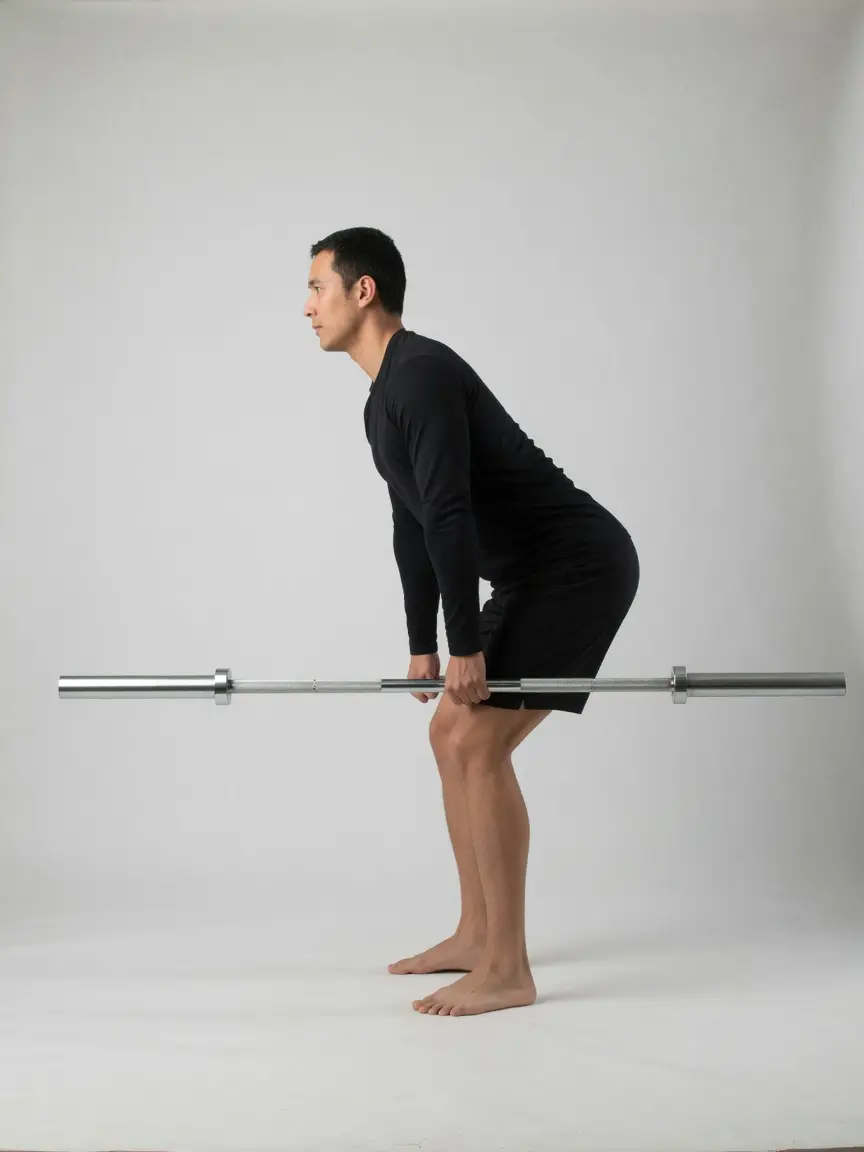
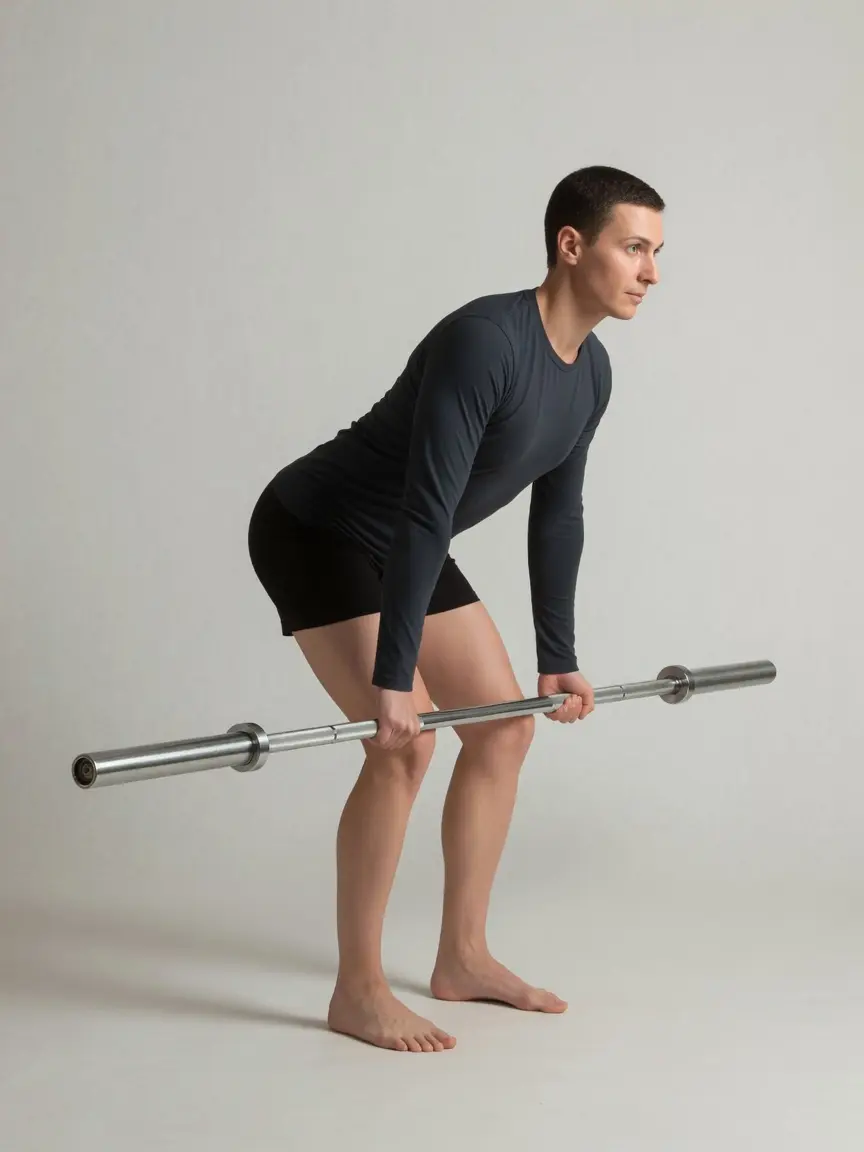
RDL bar-axis fix (.475)
Regenerate Romanian deadlift mid-hinge with the bar clearly in front of the
legs (same left-right empty-bar axis as deadlift). Reject through-thigh /
good-morning geometry in Form Director.

diff --git a/src/lib/buildInfo.ts b/src/lib/buildInfo.ts
@@ -1,2 +1,2 @@
 /** Shown on Profile so testers can confirm the deployed build. Bump when shipping UI to master. */
-export const APP_BUILD_LABEL = '2026.07-unified.474';
+export const APP_BUILD_LABEL = '2026.07-unified.475';

diff --git a/LOG.md b/LOG.md
@@ -6,9 +6,16 @@ Chronological record of shipped work. Newest first.
 
 > **The `≤20KB` half of this rule was unmeetable and is retired.** An entry here averages ~5.6KB, because the house style is to explain the defect class rather than name the change — which is the most valuable thing in this repo and not something to trade away for a byte count. Fifteen entries is ~84KB; obeying 20KB would have meant keeping **three**. So the count rule stands, and the size rule becomes a **ratchet**: the file may shrink, never grow. If the founder wants a hard byte ceiling instead, that is a call about house style, not about this file.
 
-Archive: [2026-06 → 2026-07-20](docs/archive/log/LOG-2026-06_to_2026-07-20.md) · [2026-07-20 tail](docs/archive/log/LOG-2026-07-20_tail.md) (incl. Accelerator sprint kit rotated 2026-07-22) · [2026-07-20 → 2026-07-29 (`.179` and earlier)](docs/archive/log/LOG-2026-07-20_to_2026-07-29.md) · [2026-07-29 → 2026-07-30 (`.180`–`.199`)](docs/archive/log/LOG-2026-07-29_to_2026-07-30.md) (both rotated 2026-07-30) · [2026-07-30 → 2026-07-31 (`.200`–`.213`)](docs/archive/log/LOG-2026-07-30_to_2026-07-31.md) (rotated 2026-08-02) · [`.247` for `.263`](docs/archive/log/LOG-hero-audit-rotate-2026-08-03.md) · [`.279`](docs/archive/log/LOG-rotate-279.md) · [`.280`](docs/archive/log/LOG-rotate-280.md) · [`.281` for `.296`](docs/archive/log/LOG-rotate-296.md) · [`.282` for `.297`](docs/archive/log/LOG-rotate-297.md) · [`.283` for `.298`](docs/archive/log/LOG-rotate-298.md) · [`.284` for `.299`](docs/archive/log/LOG-rotate-299.md) · [`.285` for `.300`](docs/archive/log/LOG-rotate-300.md) · [`.286` for `.301`](docs/archive/log/LOG-rotate-301.md) · [`.287` for `.302`](docs/archive/log/LOG-rotate-302.md) · [`.288` for `.303`](docs/archive/log/LOG-rotate-303.md) · [`.289` for `.304`](docs/archive/log/LOG-rotate-304.md) · [`.290` for `.305`](docs/archive/log/LOG-rotate-305.md) · [`.291` for `.306`](docs/archive/log/LOG-rotate-306.md) · [`.292` for `.307`](docs/archive/log/LOG-rotate-307.md) · [`.293` for `.308`](docs/archive/log/LOG-rotate-308.md) · [`.294` for `.309`](docs/archive/log/LOG-rotate-309.md) · [`.295` for `.310`](docs/archive/log/LOG-rotate-310.md) · [`.296` for `.311`](docs/archive/log/LOG-rotate-311.md) · [`.297` for `.312`](docs/archive/log/LOG-rotate-312.md) · [`.298` for `.313`](docs/archive/log/LOG-rotate-313.md) · [`.299` for `.314`](docs/archive/log/LOG-rotate-314.md) · [`.300` for `.315`](docs/archive/log/LOG-rotate-315.md). · [`.301` for `.316`](docs/archive/log/LOG-rotate-316.md). · [`.302` for `.317`](docs/archive/log/LOG-rotate-317.md). · [`.303` for `.318`](docs/archive/log/LOG-rotate-318.md). · [`.304` for `.319`](docs/archive/log/LOG-rotate-319.md). · [`.305` for `.320`](docs/archive/log/LOG-rotate-320.md). · [`.306` for `.321`](docs/archive/log/LOG-rotate-321.md). · [`.307` for `.322`](docs/archive/log/LOG-rotate-322.md). · [`.308` for `.323`](docs/archive/log/LOG-rotate-323.md). · [`.309` for `.324`](docs/archive/log/LOG-rotate-324.md). · [`.310` for `.325`](docs/archive/log/LOG-rotate-325.md). · [`.311` for `.326`](docs/archive/log/LOG-rotate-326.md). · [`.312` for `.327`](docs/archive/log/LOG-rotate-327.md). · [`.313` for `.328`](docs/archive/log/LOG-rotate-328.md). · [`.314` for `.329`](docs/archive/log/LOG-rotate-329.md). · [`.315` for `.330`](docs/archive/log/LOG-rotate-330.md). · [`.316` for `.331`](docs/archive/log/LOG-rotate-331.md). · [`.317` for `.332`](docs/archive/log/LOG-rotate-332.md). · [`.318` for `.333`](docs/archive/log/LOG-rotate-333.md). · [`.319` for `.334`](docs/archive/log/LOG-rotate-334.md). · [`.320` for `.335`](docs/archive/log/LOG-rotate-335.md). · [`.321` for `.336`](docs/archive/log/LOG-rotate-336.md). · [`.322` for `.337`](docs/archive/log/LOG-rotate-337.md). · [`.323` for `.338`](docs/archive/log/LOG-rotate-338.md). · [`.324` for `.339`](docs/archive/log/LOG-rotate-339.md). · [`.325` for `.340`](docs/archive/log/LOG-rotate-340.md). · [`.326` for `.341`](docs/archive/log/LOG-rotate-341.md). · [`.327` for `.342`](docs/archive/log/LOG-rotate-342.md). · [`.328` for `.343`](docs/archive/log/LOG-rotate-343.md). · [`.329` for `.344`](docs/archive/log/LOG-rotate-344.md). · [`.330` for `.345`](docs/archive/log/LOG-rotate-345.md). · [`.331` for `.346`](docs/archive/log/LOG-rotate-346.md). · [`.332` for `.347`](docs/archive/log/LOG-rotate-347.md). · [`.333` for `.348`](docs/archive/log/LOG-rotate-348.md). · [`.334` for `.349`](docs/archive/log/LOG-rotate-349.md). · [`.335` for `.350`](docs/archive/log/LOG-rotate-350.md). · [`.336` for `.351`](docs/archive/log/LOG-rotate-351.md). · [`.337` for `.352`](docs/archive/log/LOG-rotate-352.md). · [`.338` for `.353`](docs/archive/log/LOG-rotate-353.md). · [`.339` for `.354`](docs/archive/log/LOG-rotate-354.md). · [`.340` for `.355`](docs/archive/log/LOG-rotate-355.md). · [`.341` for `.356`](docs/archive/log/LOG-rotate-356.md). · [`.342` for `.357`](docs/archive/log/LOG-rotate-357.md). · [`.343` for `.358`](docs/archive/log/LOG-rotate-358.md). · [`.344` for `.359`](docs/archive/log/LOG-rotate-359.md). · [`.345` for `.360`](docs/archive/log/LOG-rotate-360.md). · [`.346` for `.361`](docs/archive/log/LOG-rotate-361.md). · [`.347` for `.362`](docs/archive/log/LOG-rotate-362.md). · [`.348` for `.363`](docs/archive/log/LOG-rotate-363.md). · [`.349` for `.364`](docs/archive/log/LOG-rotate-364.md). · [`.350` for `.365`](docs/archive/log/LOG-rotate-365.md). · [`.351` for `.366`](docs/archive/log/LOG-rotate-366.md). · [`.352` for `.367`](docs/archive/log/LOG-rotate-367.md). · [`.353` for `.368`](docs/archive/log/LOG-rotate-368.md). · [`.354` for `.369`](docs/archive/log/LOG-rotate-369.md). · [`.355` for `.370`](docs/archive/log/LOG-rotate-370.md). · [`.356` for `.371`](docs/archive/log/LOG-rotate-371.md). · [`.357` for `.372`](docs/archive/log/LOG-rotate-372.md). · [`.358` for `.373`](docs/archive/log/LOG-rotate-373.md). · [`.359` for `.374`](docs/archive/log/LOG-rotate-374.md). · [`.360` for `.375`](docs/archive/log/LOG-rotate-375.md). · [`.361` for `.376`](docs/archive/log/LOG-rotate-376.md). · [`.362` for `.377`](docs/archive/log/LOG-rotate-377.md). · [`.363` for `.378`](docs/archive/log/LOG-rotate-378.md). · [`.364` for `.379`](docs/archive/log/LOG-rotate-379.md). · [`.365` for `.380`](docs/archive/log/LOG-rotate-380.md). · [`.366` for `.381`](docs/archive/log/LOG-rotate-381.md). · [`.367` for `.382`](docs/archive/log/LOG-rotate-382.md). · [`.368` for `.383`](docs/archive/log/LOG-rotate-383.md). · [`.369` for `.384`](docs/archive/log/LOG-rotate-384.md). · [`.370` for `.385`](docs/archive/log/LOG-rotate-385.md). · [`.371` for `.386`](docs/archive/log/LOG-rotate-386.md). · [`.372` for `.387`](docs/archive/log/LOG-rotate-387.md). · [`.373` for `.388`](docs/archive/log/LOG-rotate-388.md). · [`.374` for `.389`](docs/archive/log/LOG-rotate-389.md). · [`.375` for `.390`](docs/archive/log/LOG-rotate-390.md). · [`.376` for `.391`](docs/archive/log/LOG-rotate-391.md). · [`.377` for `.392`](docs/archive/log/LOG-rotate-392.md). · [`.378` for `.393`](docs/archive/log/LOG-rotate-393.md). · [`.379` for `.394`](docs/archive/log/LOG-rotate-394.md). · [`.380` for `.395`](docs/archive/log/LOG-rotate-395.md). · [`.381` for `.396`](docs/archive/log/LOG-rotate-396.md). · [`.382` for `.397`](docs/archive/log/LOG-rotate-397.md). · [`.383` for `.398`](docs/archive/log/LOG-rotate-398.md). · [`.384` for `.399`](docs/archive/log/LOG-rotate-399.md). · [`.385` for `.400`](docs/archive/log/LOG-rotate-400.md). · [`.386` for `.401`](docs/archive/log/LOG-rotate-401.md). · [`.387` for `.402`](docs/archive/log/LOG-rotate-402.md). · [`.388` for `.403`](docs/archive/log/LOG-rotate-403.md). · [`.389` for `.404`](docs/archive/log/LOG-rotate-404.md). · [`.390` for `.405`](docs/archive/log/LOG-rotate-405.md). · [`.391` for `.406`](docs/archive/log/LOG-rotate-406.md). · [`.392` for `.407`](docs/archive/log/LOG-rotate-407.md). · [`.393` for `.408`](docs/archive/log/LOG-rotate-408.md). · [`.394` for `.409`](docs/archive/log/LOG-rotate-409.md). · [`.395` for `.410`](docs/archive/log/LOG-rotate-410.md). · [`.396` for `.411`](docs/archive/log/LOG-rotate-411.md). · [`.397` for `.412`](docs/archive/log/LOG-rotate-412.md). · [`.398` for `.413`](docs/archive/log/LOG-rotate-413.md). · [`.399` for `.414`](docs/archive/log/LOG-rotate-414.md). · [`.400` for `.415`](docs/archive/log/LOG-rotate-415.md). · [`.401` for `.416`](docs/archive/log/LOG-rotate-416.md). · [`.402` for `.417`](docs/archive/log/LOG-rotate-417.md). · [`.403` for `.418`](docs/archive/log/LOG-rotate-418.md). · [`.404` for `.419`](docs/archive/log/LOG-rotate-419.md). · [`.405` for `.420`](docs/archive/log/LOG-rotate-420.md). · [`.406` for `.421`](docs/archive/log/LOG-rotate-421.md). · [`.407` for `.422`](docs/archive/log/LOG-rotate-422.md). · [`.408` for `.423`](docs/archive/log/LOG-rotate-423.md). · [`.409` for `.424`](docs/archive/log/LOG-rotate-424.md). · [`.410` for `.425`](docs/archive/log/LOG-rotate-425.md). · [`.411` for `.426`](docs/archive/log/LOG-rotate-426.md). · [`.412` for `.427`](docs/archive/log/LOG-rotate-427.md). · [`.413` for `.428`](docs/archive/log/LOG-rotate-428.md). · [`.414` for `.429`](docs/archive/log/LOG-rotate-429.md). · [`.415` for `.430`](docs/archive/log/LOG-rotate-430.md). · [`.416` for `.431`](docs/archive/log/LOG-rotate-431.md). · [`.417` for `.432`](docs/archive/log/LOG-rotate-432.md). · [`.418` for `.433`](docs/archive/log/LOG-rotate-433.md). · [`.419` for `.434`](docs/archive/log/LOG-rotate-434.md). · [`.420` for `.435`](docs/archive/log/LOG-rotate-435.md). · [`.421` for `.436`](docs/archive/log/LOG-rotate-436.md). · [`.422` for `.437`](docs/archive/log/LOG-rotate-437.md). · [`.423` for `.438`](docs/archive/log/LOG-rotate-438.md). · [`.424` for `.439`](docs/archive/log/LOG-rotate-439.md). · [`.425` for `.440`](docs/archive/log/LOG-rotate-440.md). · [`.426` for `.441`](docs/archive/log/LOG-rotate-441.md). · [`.427` for `.442`](docs/archive/log/LOG-rotate-442.md). · [`.428` for `.443`](docs/archive/log/LOG-rotate-443.md). · [`.429` for `.444`](docs/archive/log/LOG-rotate-444.md). · [`.430` for `.445`](docs/archive/log/LOG-rotate-445.md). · [`.431` for `.446`](docs/archive/log/LOG-rotate-446.md). · [`.432` for `.447`](docs/archive/log/LOG-rotate-447.md). · [`.433` for `.448`](docs/archive/log/LOG-rotate-448.md). · [`.434` for `.449`](docs/archive/log/LOG-rotate-449.md). · [`.435` for `.450`](docs/archive/log/LOG-rotate-450.md). · [`.436` for `.451`](docs/archive/log/LOG-rotate-451.md). · [`.437` for `.452`](docs/archive/log/LOG-rotate-452.md). · [`.438` for `.453`](docs/archive/log/LOG-rotate-453.md). · [`.439` for `.454`](docs/archive/log/LOG-rotate-454.md). · [`.440` for `.455`](docs/archive/log/LOG-rotate-455.md). · [`.441` for `.456`](docs/archive/log/LOG-rotate-456.md). · [`.442` for `.457`](docs/archive/log/LOG-rotate-457.md). · [`.443` for `.458`](docs/archive/log/LOG-rotate-458.md). · [`.444` for `.459`](docs/archive/log/LOG-rotate-459.md). · [`.445` for `.460`](docs/archive/log/LOG-rotate-460.md). · [`.446` for `.461`](docs/archive/log/LOG-rotate-461.md). · [`.447` for `.462`](docs/archive/log/LOG-rotate-462.md). · [`.448` for `.463`](docs/archive/log/LOG-rotate-463.md). · [`.449` for `.464`](docs/archive/log/LOG-rotate-464.md). · [`.450` for `.465`](docs/archive/log/LOG-rotate-465.md). · [`.451` for `.466`](docs/archive/log/LOG-rotate-466.md). · [`.452` for `.467`](docs/archive/log/LOG-rotate-467.md). · [`.453` for `.468`](docs/archive/log/LOG-rotate-468.md). · [`.454` for `.469`](docs/archive/log/LOG-rotate-469.md). · [`.455` for `.470`](docs/archive/log/LOG-rotate-470.md). · [`.456` for `.471`](docs/archive/log/LOG-rotate-471.md). · [`.457` for `.472`](docs/archive/log/LOG-rotate-472.md). · [`.458` for `.473`](docs/archive/log/LOG-rotate-473.md). · [`.459` for `.474`](docs/archive/log/LOG-rotate-474.md).
+Archive: [2026-06 → 2026-07-20](docs/archive/log/LOG-2026-06_to_2026-07-20.md) · [2026-07-20 tail](docs/archive/log/LOG-2026-07-20_tail.md) (incl. Accelerator sprint kit rotated 2026-07-22) · [2026-07-20 → 2026-07-29 (`.179` and earlier)](docs/archive/log/LOG-2026-07-20_to_2026-07-29.md) · [2026-07-29 → 2026-07-30 (`.180`–`.199`)](docs/archive/log/LOG-2026-07-29_to_2026-07-30.md) (both rotated 2026-07-30) · [2026-07-30 → 2026-07-31 (`.200`–`.213`)](docs/archive/log/LOG-2026-07-30_to_2026-07-31.md) (rotated 2026-08-02) · [`.247` for `.263`](docs/archive/log/LOG-hero-audit-rotate-2026-08-03.md) · [`.279`](docs/archive/log/LOG-rotate-279.md) · [`.280`](docs/archive/log/LOG-rotate-280.md) · [`.281` for `.296`](docs/archive/log/LOG-rotate-296.md) · [`.282` for `.297`](docs/archive/log/LOG-rotate-297.md) · [`.283` for `.298`](docs/archive/log/LOG-rotate-298.md) · [`.284` for `.299`](docs/archive/log/LOG-rotate-299.md) · [`.285` for `.300`](docs/archive/log/LOG-rotate-300.md) · [`.286` for `.301`](docs/archive/log/LOG-rotate-301.md) · [`.287` for `.302`](docs/archive/log/LOG-rotate-302.md) · [`.288` for `.303`](docs/archive/log/LOG-rotate-303.md) · [`.289` for `.304`](docs/archive/log/LOG-rotate-304.md) · [`.290` for `.305`](docs/archive/log/LOG-rotate-305.md) · [`.291` for `.306`](docs/archive/log/LOG-rotate-306.md) · [`.292` for `.307`](docs/archive/log/LOG-rotate-307.md) · [`.293` for `.308`](docs/archive/log/LOG-rotate-308.md) · [`.294` for `.309`](docs/archive/log/LOG-rotate-309.md) · [`.295` for `.310`](docs/archive/log/LOG-rotate-310.md) · [`.296` for `.311`](docs/archive/log/LOG-rotate-311.md) · [`.297` for `.312`](docs/archive/log/LOG-rotate-312.md) · [`.298` for `.313`](docs/archive/log/LOG-rotate-313.md) · [`.299` for `.314`](docs/archive/log/LOG-rotate-314.md) · [`.300` for `.315`](docs/archive/log/LOG-rotate-315.md). · [`.301` for `.316`](docs/archive/log/LOG-rotate-316.md). · [`.302` for `.317`](docs/archive/log/LOG-rotate-317.md). · [`.303` for `.318`](docs/archive/log/LOG-rotate-318.md). · [`.304` for `.319`](docs/archive/log/LOG-rotate-319.md). · [`.305` for `.320`](docs/archive/log/LOG-rotate-320.md). · [`.306` for `.321`](docs/archive/log/LOG-rotate-321.md). · [`.307` for `.322`](docs/archive/log/LOG-rotate-322.md). · [`.308` for `.323`](docs/archive/log/LOG-rotate-323.md). · [`.309` for `.324`](docs/archive/log/LOG-rotate-324.md). · [`.310` for `.325`](docs/archive/log/LOG-rotate-325.md). · [`.311` for `.326`](docs/archive/log/LOG-rotate-326.md). · [`.312` for `.327`](docs/archive/log/LOG-rotate-327.md). · [`.313` for `.328`](docs/archive/log/LOG-rotate-328.md). · [`.314` for `.329`](docs/archive/log/LOG-rotate-329.md). · [`.315` for `.330`](docs/archive/log/LOG-rotate-330.md). · [`.316` for `.331`](docs/archive/log/LOG-rotate-331.md). · [`.317` for `.332`](docs/archive/log/LOG-rotate-332.md). · [`.318` for `.333`](docs/archive/log/LOG-rotate-333.md). · [`.319` for `.334`](docs/archive/log/LOG-rotate-334.md). · [`.320` for `.335`](docs/archive/log/LOG-rotate-335.md). · [`.321` for `.336`](docs/archive/log/LOG-rotate-336.md). · [`.322` for `.337`](docs/archive/log/LOG-rotate-337.md). · [`.323` for `.338`](docs/archive/log/LOG-rotate-338.md). · [`.324` for `.339`](docs/archive/log/LOG-rotate-339.md). · [`.325` for `.340`](docs/archive/log/LOG-rotate-340.md). · [`.326` for `.341`](docs/archive/log/LOG-rotate-341.md). · [`.327` for `.342`](docs/archive/log/LOG-rotate-342.md). · [`.328` for `.343`](docs/archive/log/LOG-rotate-343.md). · [`.329` for `.344`](docs/archive/log/LOG-rotate-344.md). · [`.330` for `.345`](docs/archive/log/LOG-rotate-345.md). · [`.331` for `.346`](docs/archive/log/LOG-rotate-346.md). · [`.332` for `.347`](docs/archive/log/LOG-rotate-347.md). · [`.333` for `.348`](docs/archive/log/LOG-rotate-348.md). · [`.334` for `.349`](docs/archive/log/LOG-rotate-349.md). · [`.335` for `.350`](docs/archive/log/LOG-rotate-350.md). · [`.336` for `.351`](docs/archive/log/LOG-rotate-351.md). · [`.337` for `.352`](docs/archive/log/LOG-rotate-352.md). · [`.338` for `.353`](docs/archive/log/LOG-rotate-353.md). · [`.339` for `.354`](docs/archive/log/LOG-rotate-354.md). · [`.340` for `.355`](docs/archive/log/LOG-rotate-355.md). · [`.341` for `.356`](docs/archive/log/LOG-rotate-356.md). · [`.342` for `.357`](docs/archive/log/LOG-rotate-357.md). · [`.343` for `.358`](docs/archive/log/LOG-rotate-358.md). · [`.344` for `.359`](docs/archive/log/LOG-rotate-359.md). · [`.345` for `.360`](docs/archive/log/LOG-rotate-360.md). · [`.346` for `.361`](docs/archive/log/LOG-rotate-361.md). · [`.347` for `.362`](docs/archive/log/LOG-rotate-362.md). · [`.348` for `.363`](docs/archive/log/LOG-rotate-363.md). · [`.349` for `.364`](docs/archive/log/LOG-rotate-364.md). · [`.350` for `.365`](docs/archive/log/LOG-rotate-365.md). · [`.351` for `.366`](docs/archive/log/LOG-rotate-366.md). · [`.352` for `.367`](docs/archive/log/LOG-rotate-367.md). · [`.353` for `.368`](docs/archive/log/LOG-rotate-368.md). · [`.354` for `.369`](docs/archive/log/LOG-rotate-369.md). · [`.355` for `.370`](docs/archive/log/LOG-rotate-370.md). · [`.356` for `.371`](docs/archive/log/LOG-rotate-371.md). · [`.357` for `.372`](docs/archive/log/LOG-rotate-372.md). · [`.358` for `.373`](docs/archive/log/LOG-rotate-373.md). · [`.359` for `.374`](docs/archive/log/LOG-rotate-374.md). · [`.360` for `.375`](docs/archive/log/LOG-rotate-375.md). · [`.361` for `.376`](docs/archive/log/LOG-rotate-376.md). · [`.362` for `.377`](docs/archive/log/LOG-rotate-377.md). · [`.363` for `.378`](docs/archive/log/LOG-rotate-378.md). · [`.364` for `.379`](docs/archive/log/LOG-rotate-379.md). · [`.365` for `.380`](docs/archive/log/LOG-rotate-380.md). · [`.366` for `.381`](docs/archive/log/LOG-rotate-381.md). · [`.367` for `.382`](docs/archive/log/LOG-rotate-382.md). · [`.368` for `.383`](docs/archive/log/LOG-rotate-383.md). · [`.369` for `.384`](docs/archive/log/LOG-rotate-384.md). · [`.370` for `.385`](docs/archive/log/LOG-rotate-385.md). · [`.371` for `.386`](docs/archive/log/LOG-rotate-386.md). · [`.372` for `.387`](docs/archive/log/LOG-rotate-387.md). · [`.373` for `.388`](docs/archive/log/LOG-rotate-388.md). · [`.374` for `.389`](docs/archive/log/LOG-rotate-389.md). · [`.375` for `.390`](docs/archive/log/LOG-rotate-390.md). · [`.376` for `.391`](docs/archive/log/LOG-rotate-391.md). · [`.377` for `.392`](docs/archive/log/LOG-rotate-392.md). · [`.378` for `.393`](docs/archive/log/LOG-rotate-393.md). · [`.379` for `.394`](docs/archive/log/LOG-rotate-394.md). · [`.380` for `.395`](docs/archive/log/LOG-rotate-395.md). · [`.381` for `.396`](docs/archive/log/LOG-rotate-396.md). · [`.382` for `.397`](docs/archive/log/LOG-rotate-397.md). · [`.383` for `.398`](docs/archive/log/LOG-rotate-398.md). · [`.384` for `.399`](docs/archive/log/LOG-rotate-399.md). · [`.385` for `.400`](docs/archive/log/LOG-rotate-400.md). · [`.386` for `.401`](docs/archive/log/LOG-rotate-401.md). · [`.387` for `.402`](docs/archive/log/LOG-rotate-402.md). · [`.388` for `.403`](docs/archive/log/LOG-rotate-403.md). · [`.389` for `.404`](docs/archive/log/LOG-rotate-404.md). · [`.390` for `.405`](docs/archive/log/LOG-rotate-405.md). · [`.391` for `.406`](docs/archive/log/LOG-rotate-406.md). · [`.392` for `.407`](docs/archive/log/LOG-rotate-407.md). · [`.393` for `.408`](docs/archive/log/LOG-rotate-408.md). · [`.394` for `.409`](docs/archive/log/LOG-rotate-409.md). · [`.395` for `.410`](docs/archive/log/LOG-rotate-410.md). · [`.396` for `.411`](docs/archive/log/LOG-rotate-411.md). · [`.397` for `.412`](docs/archive/log/LOG-rotate-412.md). · [`.398` for `.413`](docs/archive/log/LOG-rotate-413.md). · [`.399` for `.414`](docs/archive/log/LOG-rotate-414.md). · [`.400` for `.415`](docs/archive/log/LOG-rotate-415.md). · [`.401` for `.416`](docs/archive/log/LOG-rotate-416.md). · [`.402` for `.417`](docs/archive/log/LOG-rotate-417.md). · [`.403` for `.418`](docs/archive/log/LOG-rotate-418.md). · [`.404` for `.419`](docs/archive/log/LOG-rotate-419.md). · [`.405` for `.420`](docs/archive/log/LOG-rotate-420.md). · [`.406` for `.421`](docs/archive/log/LOG-rotate-421.md). · [`.407` for `.422`](docs/archive/log/LOG-rotate-422.md). · [`.408` for `.423`](docs/archive/log/LOG-rotate-423.md). · [`.409` for `.424`](docs/archive/log/LOG-rotate-424.md). · [`.410` for `.425`](docs/archive/log/LOG-rotate-425.md). · [`.411` for `.426`](docs/archive/log/LOG-rotate-426.md). · [`.412` for `.427`](docs/archive/log/LOG-rotate-427.md). · [`.413` for `.428`](docs/archive/log/LOG-rotate-428.md). · [`.414` for `.429`](docs/archive/log/LOG-rotate-429.md). · [`.415` for `.430`](docs/archive/log/LOG-rotate-430.md). · [`.416` for `.431`](docs/archive/log/LOG-rotate-431.md). · [`.417` for `.432`](docs/archive/log/LOG-rotate-432.md). · [`.418` for `.433`](docs/archive/log/LOG-rotate-433.md). · [`.419` for `.434`](docs/archive/log/LOG-rotate-434.md). · [`.420` for `.435`](docs/archive/log/LOG-rotate-435.md). · [`.421` for `.436`](docs/archive/log/LOG-rotate-436.md). · [`.422` for `.437`](docs/archive/log/LOG-rotate-437.md). · [`.423` for `.438`](docs/archive/log/LOG-rotate-438.md). · [`.424` for `.439`](docs/archive/log/LOG-rotate-439.md). · [`.425` for `.440`](docs/archive/log/LOG-rotate-440.md). · [`.426` for `.441`](docs/archive/log/LOG-rotate-441.md). · [`.427` for `.442`](docs/archive/log/LOG-rotate-442.md). · [`.428` for `.443`](docs/archive/log/LOG-rotate-443.md). · [`.429` for `.444`](docs/archive/log/LOG-rotate-444.md). · [`.430` for `.445`](docs/archive/log/LOG-rotate-445.md). · [`.431` for `.446`](docs/archive/log/LOG-rotate-446.md). · [`.432` for `.447`](docs/archive/log/LOG-rotate-447.md). · [`.433` for `.448`](docs/archive/log/LOG-rotate-448.md). · [`.434` for `.449`](docs/archive/log/LOG-rotate-449.md). · [`.435` for `.450`](docs/archive/log/LOG-rotate-450.md). · [`.436` for `.451`](docs/archive/log/LOG-rotate-451.md). · [`.437` for `.452`](docs/archive/log/LOG-rotate-452.md). · [`.438` for `.453`](docs/archive/log/LOG-rotate-453.md). · [`.439` for `.454`](docs/archive/log/LOG-rotate-454.md). · [`.440` for `.455`](docs/archive/log/LOG-rotate-455.md). · [`.441` for `.456`](docs/archive/log/LOG-rotate-456.md). · [`.442` for `.457`](docs/archive/log/LOG-rotate-457.md). · [`.443` for `.458`](docs/archive/log/LOG-rotate-458.md). · [`.444` for `.459`](docs/archive/log/LOG-rotate-459.md). · [`.445` for `.460`](docs/archive/log/LOG-rotate-460.md). · [`.446` for `.461`](docs/archive/log/LOG-rotate-461.md). · [`.447` for `.462`](docs/archive/log/LOG-rotate-462.md). · [`.448` for `.463`](docs/archive/log/LOG-rotate-463.md). · [`.449` for `.464`](docs/archive/log/LOG-rotate-464.md). · [`.450` for `.465`](docs/archive/log/LOG-rotate-465.md). · [`.451` for `.466`](docs/archive/log/LOG-rotate-466.md). · [`.452` for `.467`](docs/archive/log/LOG-rotate-467.md). · [`.453` for `.468`](docs/archive/log/LOG-rotate-468.md). · [`.454` for `.469`](docs/archive/log/LOG-rotate-469.md). · [`.455` for `.470`](docs/archive/log/LOG-rotate-470.md). · [`.456` for `.471`](docs/archive/log/LOG-rotate-471.md). · [`.457` for `.472`](docs/archive/log/LOG-rotate-472.md). · [`.458` for `.473`](docs/archive/log/LOG-rotate-473.md). · [`.459` for `.474`](docs/archive/log/LOG-rotate-474.md). · [`.460` for `.475`](docs/archive/log/LOG-rotate-475.md).
 
 ---
+
+## 2026-08-04 — RDL bar-axis fix (`.475`)
+
+Romanian deadlift still had the bar reading through the thighs / wrong grip axis. Regenerated mid-hinge with bar clearly **in front of** the legs, same left–right empty-bar axis as the deadlift still. Form Director + still sheet lock bar-anterior and reject through-body / good-morning.
+
+Mutants: empty-bar RDL with bar spanning behind thighs → FAIL; landmine-angled RDL → FAIL.
+
 
 ## 2026-08-04 — Empty-bar collar fix for Form Index (`.474`)
 
@@ -94,9 +101,3 @@ Mutants: remove GROK_IMAGINE_PROMPTS link from MEDIA_SYSTEM → founder lost ent
 Craft-index Phase 5: pick exercises with ✓ on `/library` (max 12), sticky bar **Train selected** starts a freestyle session (or adds to active). Pure helpers in `librarySessionPick` — toggle, templates, session name.
 
 Mutants: pick past max → list unchanged; templatesFromLibraryPick drops unknown ids; empty pick name → Library session.
-
-## 2026-08-04 — Craft index CTA + coverage truth (`.460`)
-
-Public exercise detail puts **Train this free** under the form diagram (one-click into the free logger). `/exercises` index: "Think like a coach" + pattern legend. `media/COVERAGE.md` regenerated (83 structured · pattern-backed long-tail is intentional). MEDIA_SYSTEM documents the craft index.
-
-Mutants: remove Train this free block → no primary under diagram; coverage report stale numbers if not regenerated after guide expansion.

diff --git a/CONTEXT.md b/CONTEXT.md
@@ -16,7 +16,7 @@ One screen of truth for any AI tool or human joining cold. Read this, then [AGEN
 
 ---
 
-## Now (2026-08-04 · web `2026.07-unified.474` · Android `1.24.1`)
+## Now (2026-08-04 · web `2026.07-unified.475` · Android `1.24.1`)
 
 > The ONLY "where we are" block in the repo — [ORCHESTRATION.md](ORCHESTRATION.md) points here.
 >
@@ -233,6 +233,7 @@ One screen of truth for any AI tool or human joining cold. Read this, then [AGEN
 > and `.472` dropped `.457` detail (full text remains in LOG.md / archive)
 > and `.473` dropped `.458` detail (full text remains in LOG.md / archive)
 > and `.474` dropped `.459` detail (full text remains in LOG.md / archive)
+> and `.475` dropped `.460` detail (full text remains in LOG.md / archive)
 > to [CONTEXT-now-2026-07-30.md](docs/archive/CONTEXT-now-2026-07-30.md) after this
 > block reached **79 bullets / 103KB**. A status doc that only grows stops being read.
 
@@ -253,8 +254,9 @@ One screen of truth for any AI tool or human joining cold. Read this, then [AGEN
 > | Migrations | **9 recorded pending** — [LAUNCH_RUNBOOK](docs/LAUNCH_RUNBOOK.md) §3, enforced by `src/lib/migrationLedger.test.ts`. |
 > | gitleaks | **green — and scanning for the first time.** It had never scanned anything: on a `pull_request` event the action lists the PR's commits, the job declared no `permissions:` block, and it 403'd (`pull_requests=read`) before opening a file. Fixed by a `permissions:` block (`.224` carrying `.255`). It scans **only the PR's own commits**, so commit `8ea3527a`'s real Solana treasury address — scrubbed from the working file, still in history — is out of its scope. That finding stands, deliberately not allowlisted; it was never what made this check red. |
 
-- **`.474`:** Empty-bar collar fix — OHP/front-squat/deadlift/row/RDL stills (no multi-prong clips).
-- **`.473`:** Landmine family (11) + Form Director stills (press/row/squat).
+- **`.475`:** RDL bar-axis fix — bar in front of legs (not through thighs).
+- **`.474`:** Empty-bar collar fix (OHP/front-squat/deadlift/row; no multi-prong clips).
+- **`.473`:** Landmine family (11) + Form Director stills.
 - **`.472`–`.470`:** Form Director loops + athlete-a unify.
 - **`.469`–`.467`:** Form Director system + quality reset + hero regen.
 - **`.466`–`.464`:** Form Index bulk gen (many demoted).

diff --git a/media/form-kit/prompts/still-romanian-deadlift.md b/media/form-kit/prompts/still-romanian-deadlift.md
@@ -1,0 +1,33 @@
+# Still director — romanian-deadlift
+
+```
+FORMAT
+1 shot · still · 1:1 · instructional Form Index · Mission Winning
+
+SCENE CONTEXT
+Romanian deadlift mid-hinge for mid-set teaching. Paper-neutral #f3f2f2.
+
+POSE / EXERCISE LOCK
+- True SIDE profile, face visible (prefer facing right — match deadlift still)
+- Soft knees, hips back, torso ~45° hinge, flat back
+- Arms straight, double overhand grip on knurl
+- Bar IN FRONT of thighs/shins — close to legs, not through body
+- Mid-hinge (not lockout, not floor deadlift start)
+
+BAR AXIS (hard)
+Same axis as conventional deadlift side still:
+- Empty silver Olympic bar parallel to floor
+- Bar runs left–right across frame
+- NOT landmine / angled / vertical / sagittal through body
+- NOT on the back (good-morning)
+- NOT behind the legs
+
+EQUIPMENT
+Empty bar only. NO plates · NO spring collars · NO clips · NO prongs.
+
+POSITIVE LOCKS
+RDL mid-hinge · bar in front of legs · empty bar · head visible · full body
+
+NEGATIVES
+Bar through thighs, bar on back, landmine, plates, multi-prong collars, cropped head, text, logos.
+```

diff --git a/docs/archive/INDEX.md b/docs/archive/INDEX.md
@@ -65,6 +65,7 @@ When adding a doc:
 | [log/LOG-rotate-414.md](./log/LOG-rotate-414.md) | `.399` FileUploadRow chrome — rotated for `.414` form media T1 |
 | [log/LOG-rotate-415.md](./log/LOG-rotate-415.md) | `.400` opacity exemptions — rotated for `.415` pattern packs |
 | [log/LOG-rotate-416.md](./log/LOG-rotate-416.md) | `.401` beachhead i18n — rotated for `.416` Scout + PDF |
+| [log/LOG-rotate-475.md](./log/LOG-rotate-475.md) | `.460` — rotated for `.475` (RDL bar-axis fix). |
 | [log/LOG-rotate-474.md](./log/LOG-rotate-474.md) | `.459` — rotated for `.474` (empty-bar collar fix). |
 | [log/LOG-rotate-473.md](./log/LOG-rotate-473.md) | `.458` — rotated for `.473` (landmine family + stills). |
 | [log/LOG-rotate-472.md](./log/LOG-rotate-472.md) | `.457` — rotated for `.472` (athlete unify + bar loops). |

diff --git a/media/form-kit/FORM_DIRECTOR.md b/media/form-kit/FORM_DIRECTOR.md
@@ -177,7 +177,7 @@ Models invent **broken collars**: multi-prong hubs, three spring arms, star lock
 |-------------|----------------|
 | glute-bridge | Bodyweight **or** bar resting **across hip crease** on pad — never through abdomen |
 | bench-press | Bar above chest; arms support bar; never through torso |
-| deadlift / RDL | Bar outside shins/thighs; hands on bar · **prefer empty bar** |
+| deadlift / RDL | Bar **in front of** legs (never through thighs or on back) · left–right axis like conventional DL · **prefer empty bar** · RDL = mid-hinge not lockout |
 | pull-ups | Full head visible; bar above head |
 | thruster / OHP / front-squat / barbell-row | **Empty bar default** · path outside body · head clear |
 | kettlebell-swing | KB outside hips; hinge + hip snap |

diff --git a/media/form-kit/qa/FAIL.md b/media/form-kit/qa/FAIL.md
@@ -47,6 +47,8 @@ Log every rejected generation. Do not re-ship the same glitch.
 
 | 2026-08-04 | `overhead-press/side.webp` | Empty bar lockout, clean sleeves, no clips (.474) |
 | 2026-08-04 | `front-squat` · `deadlift` · `barbell-row` stills | Empty bar, no collar hardware (.474) |
+| 2026-08-04 | `romanian-deadlift/side.webp` (pre-fix) | Bar read as through thighs / wrong grip axis | FAIL → regen bar clearly anterior to legs (.475) |
+| 2026-08-04 | `romanian-deadlift/side.webp` | Mid-hinge, bar in front of legs, empty bar L–R axis (.475) |
 
 ## Known hard cases
 

diff --git a/docs/archive/log/LOG-rotate-475.md b/docs/archive/log/LOG-rotate-475.md
@@ -1,0 +1,7 @@
+# Rotated for .475
+
+## 2026-08-04 — Craft index CTA + coverage truth (`.460`)
+
+Public exercise detail puts **Train this free** under the form diagram (one-click into the free logger). `/exercises` index: "Think like a coach" + pattern legend. `media/COVERAGE.md` regenerated (83 structured · pattern-backed long-tail is intentional). MEDIA_SYSTEM documents the craft index.
+
+Mutants: remove Train this free block → no primary under diagram; coverage report stale numbers if not regenerated after guide expansion.
